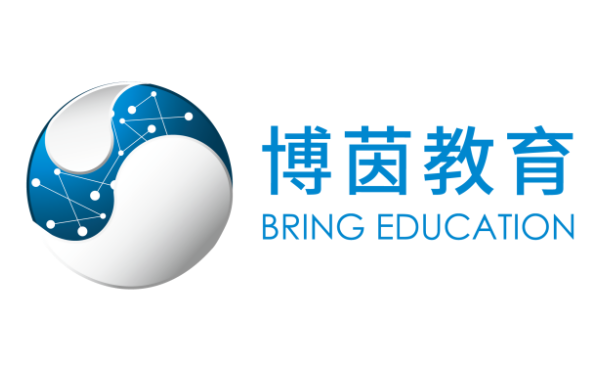
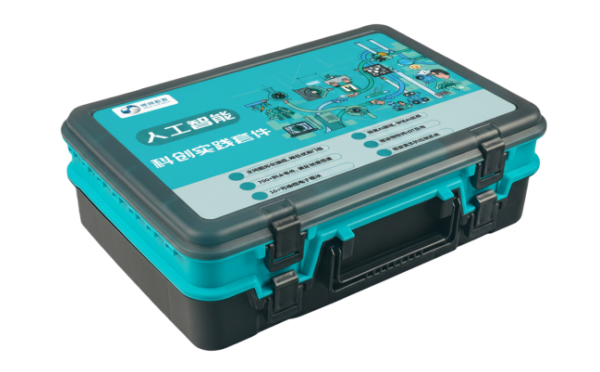
1. 更新扩展库图片 2.增加LED灯亮度控制模块

diff --git a/arduinoC/main.ts b/arduinoC/main.ts
@@ -190,7 +190,7 @@ enum PinLevel {
 namespace imaker_sensor {
     //% block="read [INPUTMODULEDIGITAL] on [IDMPIN]" blockType="boolean"
     //% INPUTMODULEDIGITAL.shadow="dropdown" INPUTMODULEDIGITAL.options="IDMDIGITAL" INPUTMODULEDIGITAL.defl="IDMDIGITAL.MAGNETIC_SENSOR"
-    //% IDMPIN.shadow="dropdown" IDMPIN.options="PIN_DigitalRead"
+    //% IDMPIN.shadow="dropdown" IDMPIN.options="MOTORBIT_PIN_DigitalRead"
     export function inputDigitalModule(parameter: any, block: any) {
         let inputModule = parameter.INPUTMODULEDIGITAL.code;
         let inputModulePin = parameter.IDMPIN.code;
@@ -234,7 +234,7 @@ namespace imaker_sensor {
 
     //% block="write [OUTPUTMODULEDIGITAL] on [ODMPIN] [LEVEL]" blockType="command"
     //% OUTPUTMODULEDIGITAL.shadow="dropdown" OUTPUTMODULEDIGITAL.options="ODMDIGITAL" OUTPUTMODULEDIGITAL.defl="ODMDIGITAL.LED"
-    //% ODMPIN.shadow="dropdown" ODMPIN.options="PIN_DigitalWrite"
+    //% ODMPIN.shadow="dropdown" ODMPIN.options="MOTORBIT_PIN_DigitalWrite"
     //% LEVEL.shadow="dropdown" LEVEL.options="PinLevel" LEVEL.defl="PinLevel.HIGH"
     export function outputDigitalModule(parameter: any, block: any) {
         let outputModule = parameter.OUTPUTMODULEDIGITAL.code;
@@ -248,6 +248,18 @@ namespace imaker_sensor {
 
             Generator.addCode(`digital_write(${outputModulePin}, ${level});`);
         }
+    }
+
+    //% block="set [OUTPUTMODULEDIGITAL] on [ODMPIN] brightness [BRIGHTNESS]" blockType="command"
+    //% OUTPUTMODULEDIGITAL.shadow="dropdown" OUTPUTMODULEDIGITAL.options="ODMDIGITAL" OUTPUTMODULEDIGITAL.defl="ODMDIGITAL.LED"
+
+    //% ODMPIN.shadow="dropdown" ODMPIN.options="PIN_AnalogWrite"
+    //% BRIGHTNESS.shadow="range" BRIGHTNESS.params.min=0 BRIGHTNESS.params.max=100 BRIGHTNESS.defl=100
+    export function setLedBrightness(parameter: any, block: any) {
+        let pin = parameter.ODMPIN.code;
+        let brightness = parameter.BRIGHTNESS.code;
+        Generator.addSetup(`pinMode_${pin}`,`pinMode(${pin}, OUTPUT);`);
+        Generator.addCode(`analogWrite(${pin}, map(${brightness}, 0, 100, 0, 255));`);
     }
 
     //% block="STOP  MOTOR[motor] " blockType="command"
@@ -298,6 +310,8 @@ namespace imaker_sensor {
         Generator.addObject("MotorObject", "EM_Microbit_Motor", "motorbit;");
         Generator.addCode(`motorbit.servo360(${servo},${angle});`);
     }
+
+
 
     
 }

diff --git a/readme.md b/readme.md
@@ -1,0 +1,46 @@
+# 人工智能科创实践套装
+
+这是一个专为人工智能科创实践套装开发的 Mind+ 图形化编程扩展库。通过本扩展，你可以轻松控制套装内各种传感器、电机和舵机。
+![alt text](arduinoC/_images/featured.png)
+
+
+## 功能模块
+
+### 1. 输入模块 (Input)
+- **数字输入 (Digital Input)**
+  - 支持模块：按键 (Button)、人体红外传感器 (Pyroelectric Sensor) 等。
+  - 功能：读取数字信号。对于按键模块，库内部会自动处理反逻辑（按下为高电平）。
+- **模拟输入 (Analog Input)**
+  - 支持模块：电位器 (Potentiometer)、土壤湿度传感器 (Soil Humidity) 等。
+  - 功能：读取模拟信号数值。
+- **超声波测距 (Ultrasonic)**
+  - 功能：通过 I2C 接口读取前方障碍物的距离（单位：厘米）。
+
+### 2. 输出模块 (Output)
+- **数字输出 (Digital Output)**
+  - 支持模块：LED 灯等。
+  - 功能：控制引脚的高低电平输出。
+- **LED 亮度控制 (LED Brightness)**
+  - 功能：通过 PWM 控制 LED 的亮度（范围：0-100%）。
+
+### 3. 电机控制 (Motor)
+- **直流电机 (DC Motor)**
+  - 端口：M1, M2, M3, M4 或全部 (All)。
+  - 控制：设置速度 (0-255) 和方向 (正转 CW / 反转 CCW)。
+- **电机停止**
+  - 功能：停止指定端口的电机转动。
+
+### 4. 舵机控制 (Servo)
+- **270° 舵机**
+  - 端口：S1 - S8。
+  - 控制：设置舵机角度 (0-270°)。
+- **360° 舵机**
+  - 端口：S1 - S8。
+  - 控制：设置舵机角度 (0-360°)。
+
+## 注意事项
+- 确保主控板K10已正确连接扩展板。
+- 使用超声波传感器时，请确保接在正确的 I2C 接口上。
+
+## 许可
+MIT License
